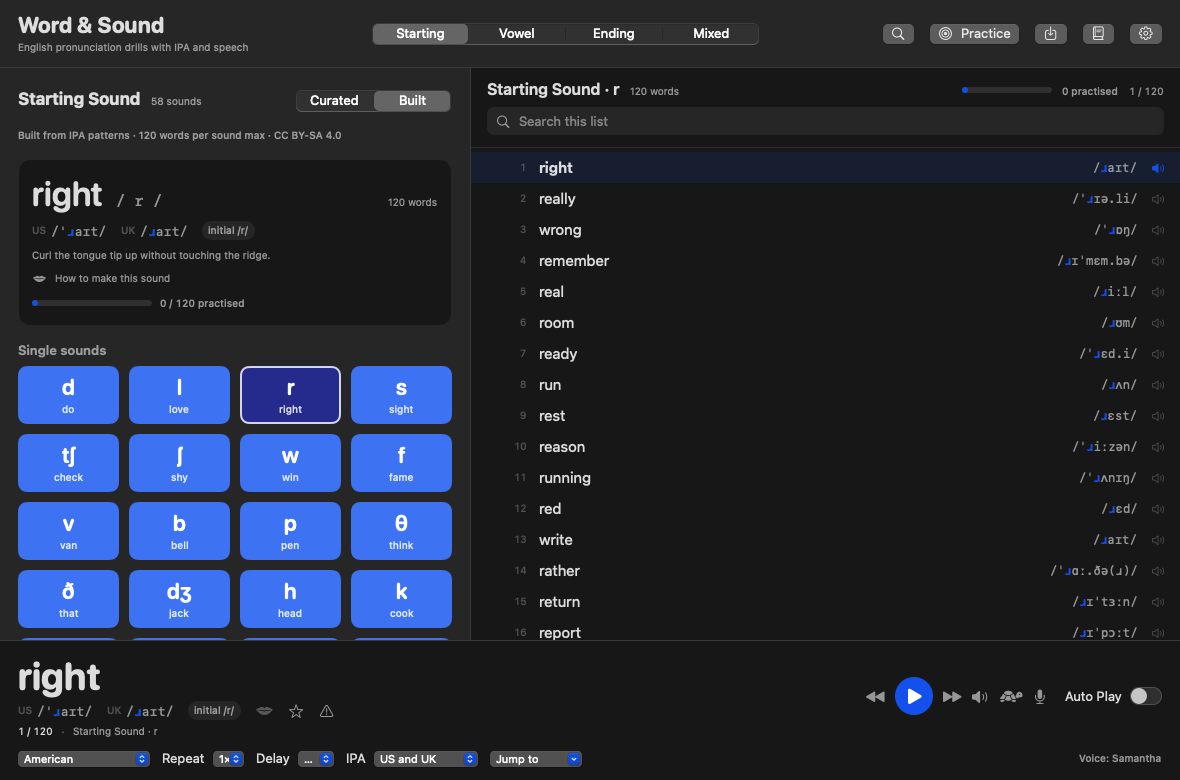
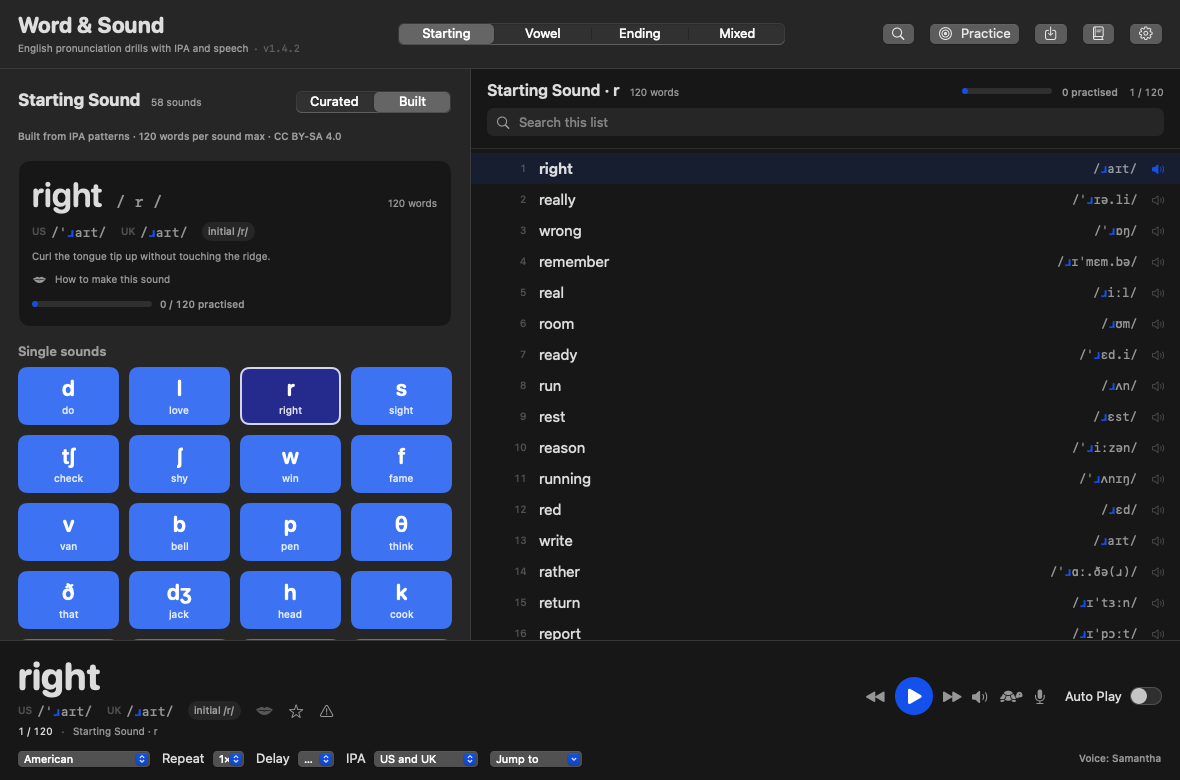
Show app version in the UI

diff --git a/Sources/WordAndSound/Views/HeaderView.swift b/Sources/WordAndSound/Views/HeaderView.swift
@@ -18,9 +18,15 @@ struct HeaderView: View {
             VStack(alignment: .leading, spacing: 2) {
                 Text(model.appInfo?.name ?? "Word & Sound")
                     .font(.system(size: 22, weight: .bold, design: .rounded))
-                Text(model.appInfo?.tagline ?? "English pronunciation drills")
-                    .font(.caption)
-                    .foregroundStyle(.secondary)
+                HStack(spacing: 5) {
+                    Text(model.appInfo?.tagline ?? "English pronunciation drills")
+                        .font(.caption)
+                        .foregroundStyle(.secondary)
+                    Text("·").foregroundStyle(.tertiary)
+                    Text(AppVersion.compact)
+                        .font(.caption2.monospaced())
+                        .foregroundStyle(.tertiary)
+                }
             }
 
             Spacer(minLength: 12)

diff --git a/Sources/WordAndSound/Views/SettingsView.swift b/Sources/WordAndSound/Views/SettingsView.swift
@@ -83,6 +83,12 @@ struct SettingsView: View {
                 }
             }
 
+            Section("About") {
+                LabeledContent("Word & Sound", value: AppVersion.display)
+                LabeledContent("Build", value: AppVersion.build.isEmpty ? "development" : AppVersion.build)
+                Link("GitHub repository", destination: URL(string: "https://github.com/somphol/word-and-sound-mac")!)
+            }
+
             Section("Data") {
                 Button("Reset speech and playback settings") {
                     model.resetSettings()

diff --git a/Sources/WordAndSound/AppVersion.swift b/Sources/WordAndSound/AppVersion.swift
@@ -1,0 +1,19 @@
+import Foundation
+
+enum AppVersion {
+    static var short: String {
+        Bundle.main.object(forInfoDictionaryKey: "CFBundleShortVersionString") as? String ?? "dev"
+    }
+
+    static var build: String {
+        Bundle.main.object(forInfoDictionaryKey: "CFBundleVersion") as? String ?? ""
+    }
+
+    static var display: String {
+        build.isEmpty ? short : "\(short) (\(build))"
+    }
+
+    static var compact: String {
+        short == "dev" ? "dev build" : "v\(short)"
+    }
+}

diff --git a/Sources/WordAndSound/Views/CreditsView.swift b/Sources/WordAndSound/Views/CreditsView.swift
@@ -11,7 +11,7 @@ struct CreditsView: View {
                 VStack(alignment: .leading, spacing: 3) {
                     Text("Credits and licenses")
                         .font(.title2.bold())
-                    Text("Code MIT · bundled data CC BY-SA 4.0")
+                    Text("Word & Sound \(AppVersion.display) · code MIT · bundled data CC BY-SA 4.0")
                         .font(.caption)
                         .foregroundStyle(.secondary)
                 }

diff --git a/Sources/WordAndSound/Views/RootView.swift b/Sources/WordAndSound/Views/RootView.swift
@@ -87,7 +87,7 @@ struct RootView: View {
         guard let window = NSApplication.shared.windows.first(where: { $0.isVisible && $0.canBecomeMain }) else {
             return
         }
-        window.title = "Word & Sound"
+        window.title = "Word & Sound \(AppVersion.short)"
         let frame = window.frame
         let visibleArea = NSScreen.screens.reduce(CGFloat.zero) { total, screen in
             let intersection = screen.visibleFrame.intersection(frame)

diff --git a/docs/RELEASE.md b/docs/RELEASE.md
@@ -13,7 +13,7 @@ Expect `PASS` and 134 tiles / 134 pattern lists.
 
 Edit `scripts/make_app.sh`:
 
-- `CFBundleShortVersionString` — user-facing version, for example `1.4.1`
+- `CFBundleShortVersionString` — user-facing version, for example `1.4.2`
 - `CFBundleVersion` — monotonically increasing build number
 
 Update `CHANGELOG.md`.

diff --git a/CHANGELOG.md b/CHANGELOG.md
@@ -1,5 +1,10 @@
 # Changelog
 
+## 1.4.2 — 2026-11-25
+
+- Show the bundle version in the header, window title, Settings and Credits.
+- Read version/build from `Info.plist`; `swift run` shows “dev build”.
+
 ## 1.4.1 — 2026-11-25
 
 - Replace the single front-lip drawing with a clear spread / neutral /
